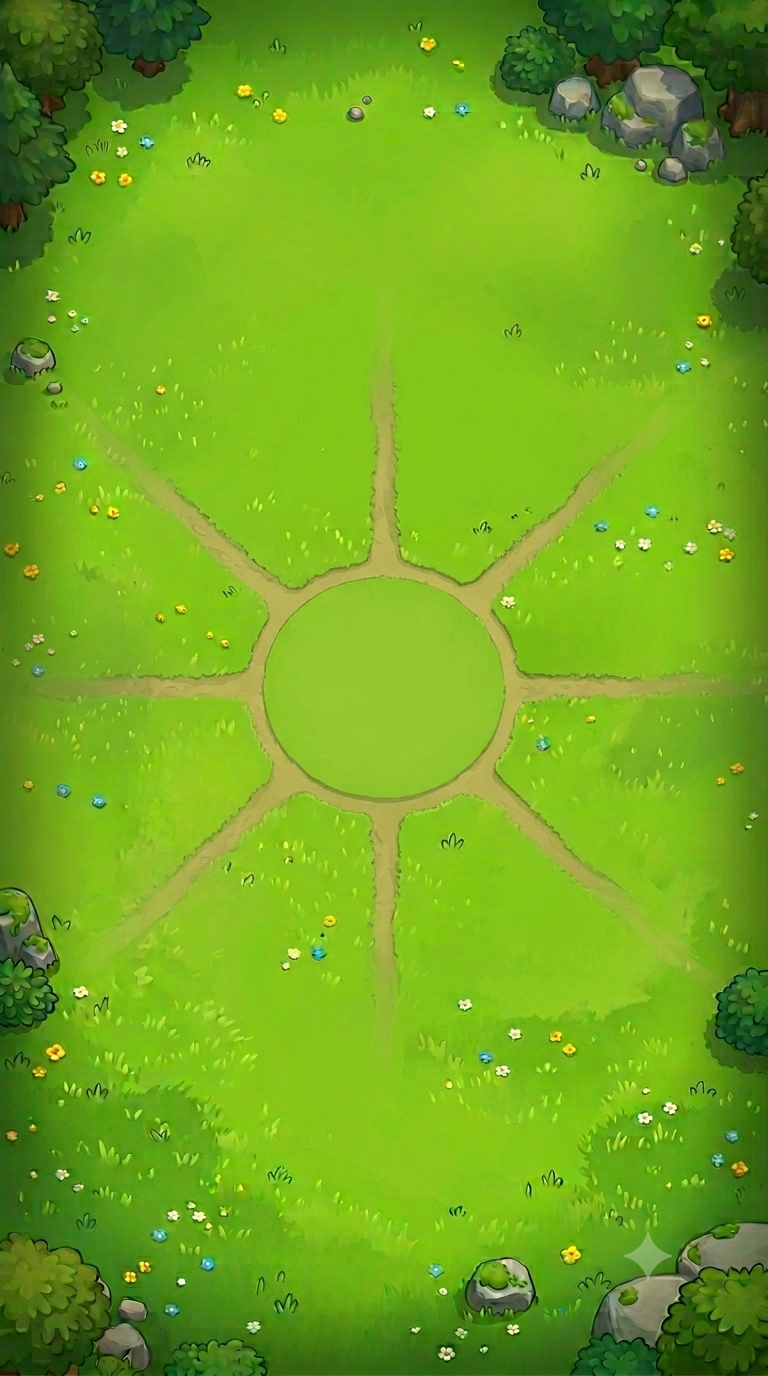
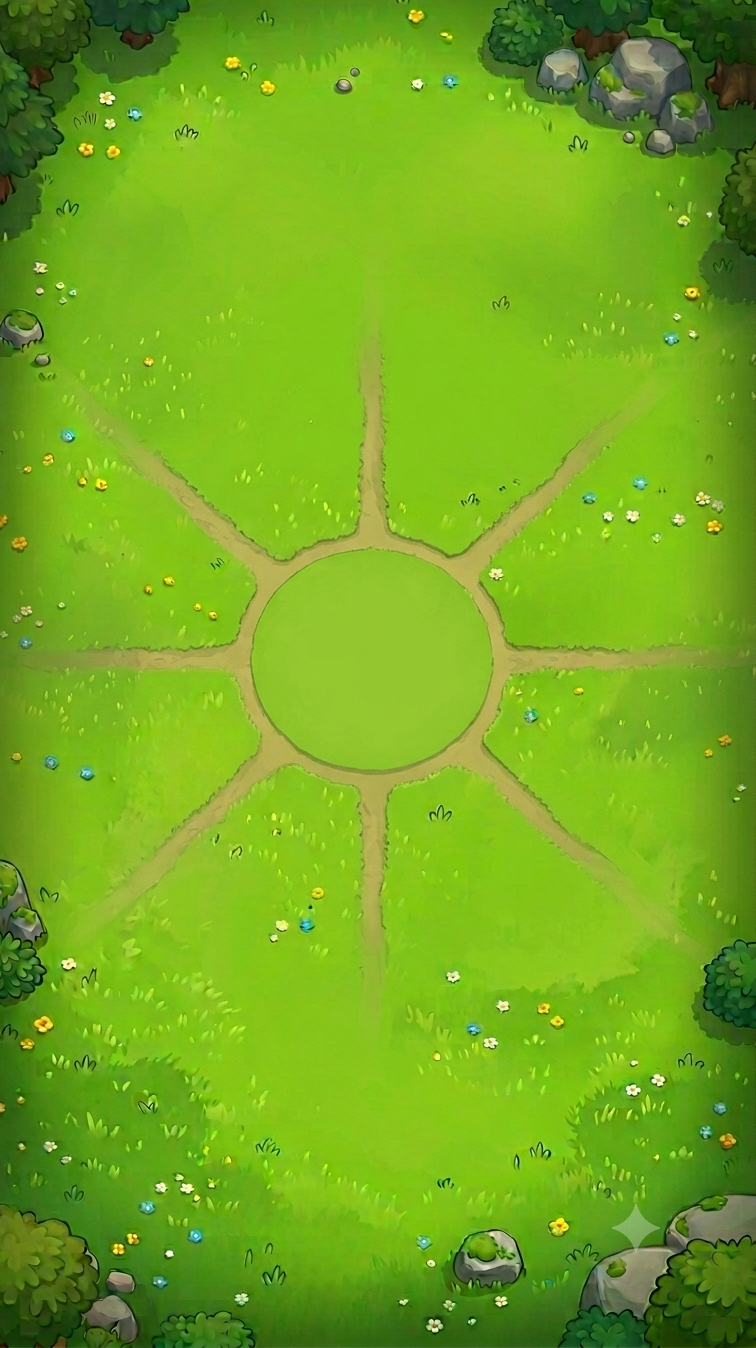
fix(field): 맵 클리어링 정중앙 크롭 + 배경 단순 중앙정렬
- field_human.png를 흙(클리어링) 무게중심 기준 정중앙으로 크롭(0.51→0.50)
- BattleField 배경을 BG_FOCUS_Y/줌 오프셋 제거 → 단순 cover 중앙정렬.
  맵 중앙=타워(화면 중앙) 자동 정렬 (매직넘버 제거)
- scripts/centerFieldImage.js: 새 종족 필드 이미지 중앙정렬 전처리 도구

diff --git a/src/components/BattleField.tsx b/src/components/BattleField.tsx
@@ -68,13 +68,6 @@ const ENEMY_STROKE = 'rgba(255,70,70,0.95)'; // 적 유닛 빨강 테두리 — 
 /** 피격 순간 번쩍 (타격감) */
 const HIT_COLOR = 'rgba(255,255,255,0.95)';
 
-/**
- * 배경 맵 정렬: 맵의 클리어링(방사형 수렴점)을 타워 위치에 맞춰 그린다(=맵을 크롭/오프셋).
- * BG_FOCUS_Y = 클리어링의 이미지 세로 비율(0~1) — 어긋나면 이 값만 조정(↑=맵 위로/타워가 아래로).
- * BG_ZOOM = cover보다 살짝 확대해 세로 오프셋 여유 확보(클램프로 빈공간 방지).
- */
-const BG_FOCUS_Y = 0.46;
-const BG_ZOOM = 1.12;
 
 /** 영웅 클래스 테마 색 (오라/본체/테두리) — Phase1 절차적 디자인 */
 const HERO_THEME: Record<string, { body: string; aura: string; ring: string }> = {
@@ -205,27 +198,24 @@ export const BattleField = memo(function BattleField({ config, heroDef, speed, r
       return p;
     };
 
-    // 타워 화면 좌표 (배경 정렬·성 렌더 공용)
+    // 타워 화면 좌표 (성 렌더용)
     const tx = towerX * scale;
     const ty = towerY * scale;
     const tr = towerRadius * scale;
 
-    // ── 배경 PNG: 맵 클리어링(BG_FOCUS_Y)을 타워(ty)에 맞춰 정렬 = 맵 크롭/오프셋 (피드백) ──
+    // ── 배경 PNG: cover 중앙정렬 — 맵 클리어링을 파일에서 정중앙 크롭해둠 → 중앙정렬 = 타워(중앙) 정렬 ──
     if (bgImage) {
       const W = size.w;
       const H = size.h;
       const iw = bgImage.width();
       const ih = bgImage.height();
-      const s = Math.max(W / iw, H / ih) * BG_ZOOM; // cover + 약간 확대(세로 오프셋 여유)
-      const dw = iw * s;
-      const dh = ih * s;
-      // 가로 중앙, 세로는 클리어링이 타워(ty)에 오도록 — 화면 밖 빈공간 없게 클램프
-      const dx = Math.min(0, Math.max(W - dw, (W - dw) / 2));
-      const dy = Math.min(0, Math.max(H - dh, ty - BG_FOCUS_Y * dh));
+      const cover = Math.max(W / iw, H / ih); // 둘 다 덮는 최대 배율
+      const dw = iw * cover;
+      const dh = ih * cover;
       canvas.drawImageRect(
         bgImage,
         Skia.XYWHRect(0, 0, iw, ih),
-        Skia.XYWHRect(dx, dy, dw, dh),
+        Skia.XYWHRect((W - dw) / 2, (H - dh) / 2, dw, dh), // 중앙 정렬
         fill('rgba(0,0,0,1)'), // 이미지 드로잉용 기본 페인트 (색상 무시됨)
       );
     }

diff --git a/scripts/centerFieldImage.js b/scripts/centerFieldImage.js
@@ -1,0 +1,46 @@
+/**
+ * 전장 배경 PNG의 흙(클리어링+길) 무게중심을 정중앙으로 크롭한다.
+ * 배경 중앙정렬(cover)만으로 타워(화면 중앙)와 클리어링이 정렬되게 하는 1회 전처리.
+ * 사용: node scripts/centerFieldImage.js [경로]  (기본 assets/game/field/field_human.png)
+ * 새 종족 필드(field_<race>.png) 받으면 이걸 한 번 돌려서 중앙 정렬해두면 됨.
+ */
+const { PNG } = require('pngjs');
+const fs = require('fs');
+
+const path = process.argv[2] || 'assets/game/field/field_human.png';
+const png = PNG.sync.read(fs.readFileSync(path));
+const { width: W, height: H, data } = png;
+
+// 흙/길(탄·카키): R이 G에 근접 + B가 확연히 낮음 (풀은 G>>R라 제외)
+let sx = 0,
+  sy = 0,
+  n = 0;
+for (let y = 0; y < H; y++) {
+  for (let x = 0; x < W; x++) {
+    const i = (y * W + x) * 4;
+    const R = data[i];
+    const G = data[i + 1];
+    const B = data[i + 2];
+    if (R >= G - 22 && B <= G - 30 && G >= 110 && G <= 220 && R >= 130) {
+      sx += x;
+      sy += y;
+      n++;
+    }
+  }
+}
+if (n === 0) {
+  console.error('흙 픽셀을 못 찾았습니다 — 임계값 조정 필요');
+  process.exit(1);
+}
+
+const cx = Math.round(sx / n);
+const cy = Math.round(sy / n);
+const cropW = 2 * Math.min(cx, W - cx);
+const cropH = 2 * Math.min(cy, H - cy);
+const ox = cx - cropW / 2;
+const oy = cy - cropH / 2;
+
+const out = new PNG({ width: cropW, height: cropH });
+PNG.bitblt(png, out, ox, oy, cropW, cropH, 0, 0);
+fs.writeFileSync(path, PNG.sync.write(out));
+console.log(`centered: ${W}x${H} → ${cropW}x${cropH} (centroid ${cx},${cy})`);
